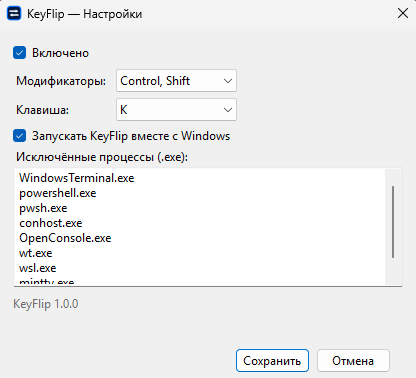
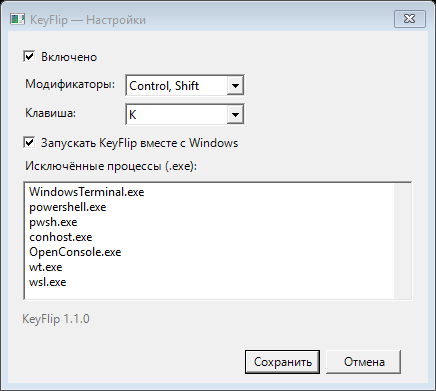
release: promote KeyFlip 1.1.0

Changed region(s): [[0.0, 0.0, 1.0, 1.0]]

diff --git a/tests/KeyFlip.Tests/BuildInfoTests.cs b/tests/KeyFlip.Tests/BuildInfoTests.cs
@@ -8,9 +8,10 @@ internal sealed class BuildInfoTests
 
     public void Run()
     {
-        Equal("1.0.1-rc4", BuildInfo.Version);
+        Equal("1.1.0", BuildInfo.Version);
+        Equal("KeyFlip 1.1.0", BuildInfo.DisplayVersion);
         True(Path.IsPathFullyQualified(BuildInfo.ProcessPath));
-        True(BuildInfo.StartupMetadata.Contains("version=1.0.1-rc4", StringComparison.Ordinal));
+        True(BuildInfo.StartupMetadata.Contains("version=1.1.0", StringComparison.Ordinal));
         True(BuildInfo.StartupMetadata.Contains($"path={BuildInfo.ProcessPath}", StringComparison.Ordinal));
     }
 

diff --git a/docs/EN/README.md b/docs/EN/README.md
@@ -3,6 +3,7 @@
 # KeyFlip
 
 [![CI](https://github.com/pologovlev-collab/KeyFlip/actions/workflows/ci.yml/badge.svg)](https://github.com/pologovlev-collab/KeyFlip/actions/workflows/ci.yml)
+[![Latest release](https://img.shields.io/github/v/release/pologovlev-collab/KeyFlip?display_name=tag&sort=semver)](https://github.com/pologovlev-collab/KeyFlip/releases/latest)
 [![Windows 10/11 x64](https://img.shields.io/badge/Windows-10%20%7C%2011%20x64-0078D4?logo=windows)](https://github.com/pologovlev-collab/KeyFlip/releases)
 [![MIT License](https://img.shields.io/badge/license-MIT-green.svg)](../../LICENSE)
 
@@ -22,7 +23,7 @@ Select text and press `Ctrl + Shift + K`. Everything runs locally and offline, w
 | Windows 10 / 11 | ARM64 | — | Planned |
 | Linux / macOS | — | — | Not supported |
 
-The release is a portable single-file EXE with the .NET runtime included. [View all releases](https://github.com/pologovlev-collab/KeyFlip/releases).
+The current stable version is **KeyFlip 1.1.0**. It is a portable single-file EXE with the .NET runtime included. [View all releases](https://github.com/pologovlev-collab/KeyFlip/releases).
 
 ## Quick start
 
@@ -35,6 +36,15 @@ The release is a portable single-file EXE with the .NET runtime included. [View 
 After moving the portable EXE, launch it manually once so KeyFlip can refresh its autostart path.
 
 ![KeyFlip settings](../../assets/readme/keyflip-settings.png)
+
+The current application version appears in muted gray text at the bottom of the settings window.
+
+## What's new in 1.1.0
+
+- Reliable conversion of long mixed-layout phrases, including ambiguous short words and user typos.
+- Safe preservation and restoration of empty, text, and image clipboard contents.
+- A visible application version in Settings, startup diagnostics, and EXE properties.
+- Deterministic behavior without requiring Windows system dictionaries.
 
 ## Examples
 
@@ -60,7 +70,7 @@ ghbdtn   vbh file.txt
 
 ## Features
 
-- Smart per-word Russian ↔ English conversion.
+- Context-aware Russian ↔ English conversion with local phrase direction.
 - Complete physical US QWERTY ↔ Russian ЙЦУКЕН mapping, including Shift and symbols.
 - Code-aware conversion that preserves valid syntax and fixes confidently recognized wrong-layout syntax.
 - Formatting and paragraph preservation in Microsoft Word.
@@ -72,7 +82,7 @@ ghbdtn   vbh file.txt
 
 ## How it works
 
-A selection containing one alphabetic token uses direct physical-layout conversion. Known technical acronyms such as `SQL`, `API`, and `HTTP` are protected from accidental conversion. Selections with two or more words use conservative per-word decisions. Spaces, tabs, and line endings are preserved exactly; punctuation attached to a converted word follows the same direction.
+A selection containing one alphabetic token uses direct physical-layout conversion. In longer text, KeyFlip determines a direction for each local clause and then handles ambiguous physical key clusters consistently. Known technical acronyms such as `SQL`, `API`, and `HTTP`, URLs, email addresses, and strongly supported English fragments are protected from accidental conversion. Spaces, tabs, and line endings are preserved exactly; punctuation attached to a converted word follows the same direction.
 
 The normal operation is: protected-context check → clipboard snapshot → Copy → conversion → Paste → clipboard restoration. A confirmed VS Code Integrated Terminal aborts before `Ctrl+C` or any clipboard change; the editor and an unknown `Code.exe` context continue normally.
 
@@ -94,10 +104,10 @@ KeyFlip does not send text anywhere, use AI, collect telemetry, require an accou
 
 The EXE is not code-signed yet, so Windows SmartScreen or antivirus software may show a warning. Do not disable protection: download only from the [official release](https://github.com/pologovlev-collab/KeyFlip/releases), verify SHA-256, or build from source.
 
-SHA-256 for `KeyFlip_windows_x64.exe` version 1.0.0:
+The SHA-256 checksum for every build is published in its GitHub Release description. You can verify a downloaded file with:
 
-```text
[1 lines of base64/hex data omitted]
+```powershell
+Get-FileHash .\KeyFlip_windows_x64.exe -Algorithm SHA256
 ```
 
 ## Known limitations
@@ -117,6 +127,6 @@ Requirements: Windows and the .NET 8 SDK.
 .\build.ps1
 ```
 
-The script restores dependencies, builds Release, runs all automated tests, and creates a self-contained single-file win-x64 release under `artifacts\release\win-x64`.
+The script performs a clean restore, builds Release, runs all automated tests, and creates a self-contained single-file win-x64 release under `artifacts\candidates\v1.1.0`.
 
 See [docs/ARCHITECTURE.md](../ARCHITECTURE.md) for the technical overview, [CONTRIBUTING.md](../../CONTRIBUTING.md) to contribute, and the [MIT License](../../LICENSE).

diff --git a/RELEASE_NOTES.md b/RELEASE_NOTES.md
@@ -1,8 +1,8 @@
-# KeyFlip v1.0.1-rc4
+# KeyFlip v1.1.0
 
-Testing pre-release for KeyFlip. Stable v1.0.0 remains the recommended stable download.
+KeyFlip 1.1.0 is the current stable release. It promotes the converter and clipboard fixes validated in the RC4 candidate without changing their behavior.
 
-Changes in this candidate:
+Highlights:
 
 - Preserves the RC3 clipboard transaction fixes and restoration safeguards.
 - Fixes long mixed-layout prose when Windows spell-check dictionaries are missing or only partly available.
@@ -10,6 +10,7 @@ Changes in this candidate:
 - Keeps physical clusters atomic and protects technical tokens and strongly supported English islands.
 - Adds deterministic no-scorer, English-only, Russian-only, and both-language scorer coverage; the trace tool reports whether the optional Windows scorer is available.
 - Adds a development-only conversion trace and stale-build release guards.
+- Shows `KeyFlip 1.1.0` in muted gray text at the bottom of the Settings window.
 
 Download `KeyFlip_windows_x64.exe`. It is a self-contained, untrimmed, single-file build for Windows 10/11 x64 and does not require a separate .NET runtime installation.
 

diff --git a/CHANGELOG.md b/CHANGELOG.md
@@ -1,5 +1,14 @@
 # Changelog
 
+## 1.1.0
+
+- Promoted the fully validated RC4 converter and clipboard safeguards to the current stable release.
+- Made long mixed-layout conversion deterministic without requiring Windows spell-check dictionaries.
+- Preserved ambiguous physical clusters atomically while protecting technical tokens and English islands.
+- Added robust empty, text, same-text, and image clipboard restoration.
+- Displayed the current application version in muted text in the Settings window.
+- Hardened clean builds and release verification against stale binaries or mismatched commits.
+
 ## 1.0.1-rc4 (pre-release)
 
 - Made long mixed-layout conversion deterministic when Windows spell-check dictionaries are absent or only partially available.
